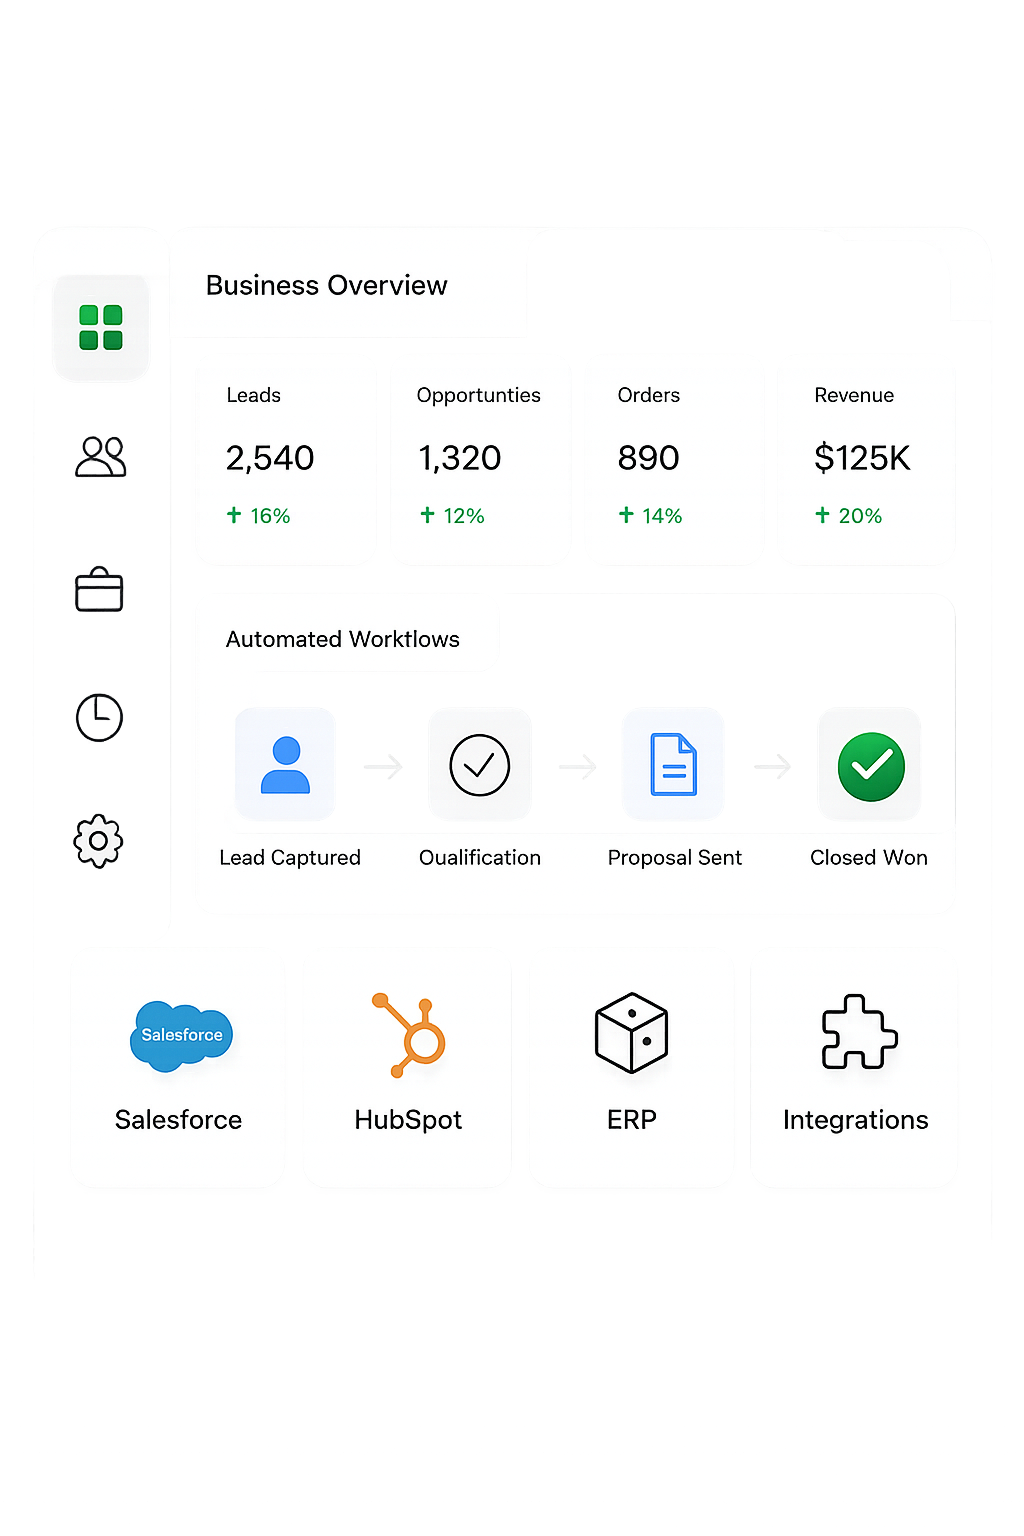
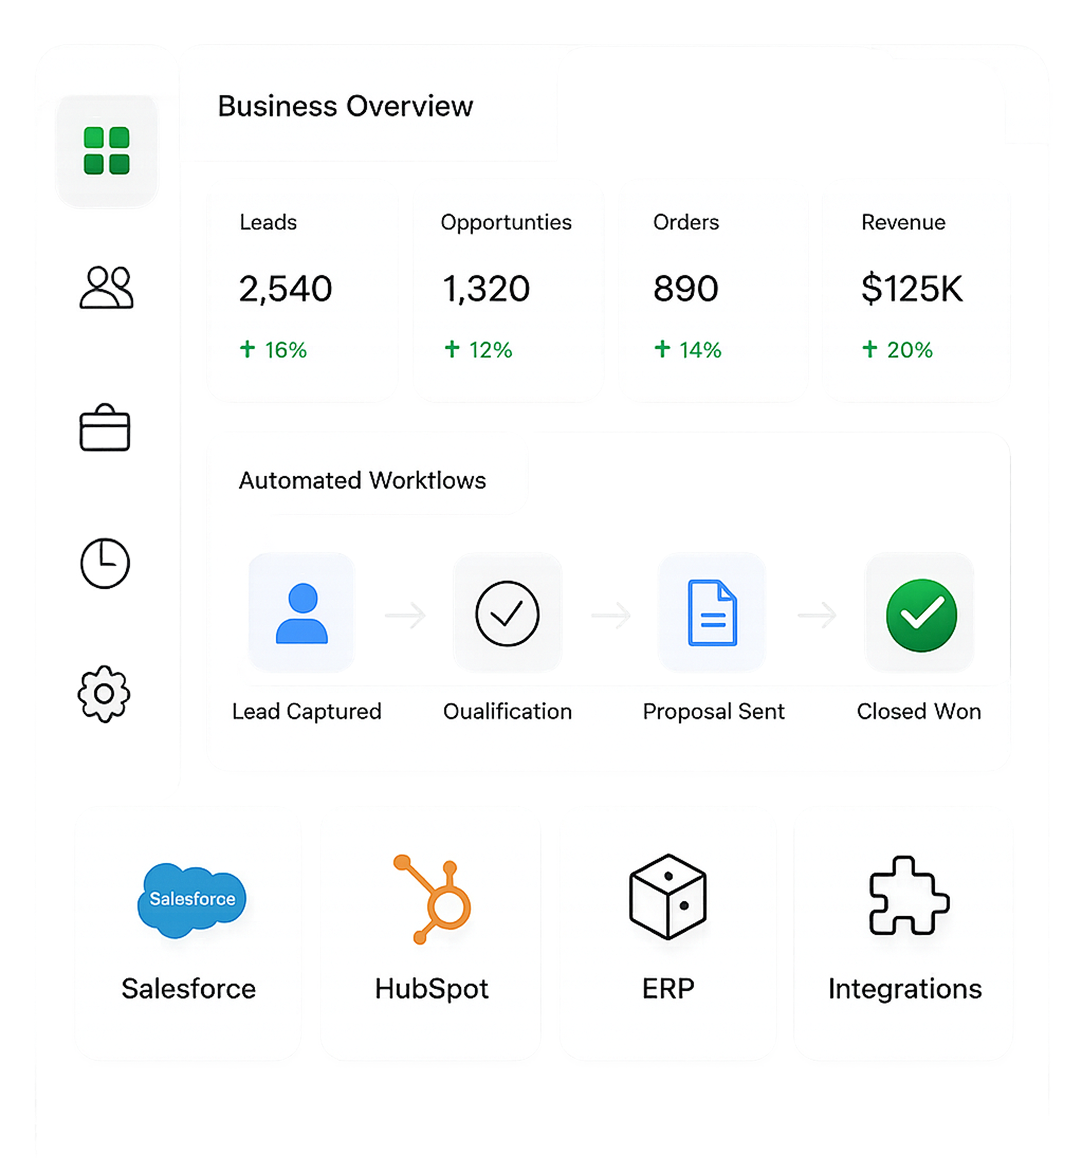
fix: images update

diff --git a/components/services/DevelopmentHero.jsx b/components/services/DevelopmentHero.jsx
@@ -80,14 +80,14 @@ export default function DevelopmentHero() {
                   <Image
                     className="ltr:d-block rtl:d-none"
                     alt="development-hero-mockup"
-                    src="/assets/images/template/hero-mockup.png"
+                    src="/assets/images/services/custom/hero-custom-dev.png"
                     width="1492"
                     height="1250"
                   />
                   <Image
                     className="ltr:d-none rtl:d-block"
                     alt="development-hero-mockup-rtl"
-                    src="/assets/images/template/hero-mockup-rtl.png"
+                    src="/assets/images/services/custom/hero-custom-dev.png"
                     width="1492"
                     height="1250"
                   />

diff --git a/components/services/ZohoHero.jsx b/components/services/ZohoHero.jsx
@@ -79,14 +79,14 @@ export default function ZohoHero() {
                   <Image
                     className="ltr:d-block rtl:d-none"
                     alt="zoho-hero-mockup"
-                    src="/assets/images/template/hero-mockup.png"
+                    src="/assets/images/services/zoho/hero-zoho.png"
                     width="1492"
                     height="1250"
                   />
                   <Image
                     className="ltr:d-none rtl:d-block"
                     alt="zoho-hero-mockup-rtl"
-                    src="/assets/images/template/hero-mockup-rtl.png"
+                    src="/assets/images/services/zoho/hero-zoho.png"
                     width="1492"
                     height="1250"
                   />

diff --git a/components/services/ErpHero.jsx b/components/services/ErpHero.jsx
@@ -76,14 +76,14 @@ export default function ErpHero() {
                   <Image
                     className="ltr:d-block rtl:d-none"
                     alt="erp-hero-mockup"
-                    src="/assets/images/template/hero-mockup.png"
+                    src="/assets/images/services/erp/hero-erp.png"
                     width="1492"
                     height="1250"
                   />
                   <Image
                     className="ltr:d-none rtl:d-block"
                     alt="erp-hero-mockup-rtl"
-                    src="/assets/images/template/hero-mockup-rtl.png"
+                    src="/assets/images/services/erp/hero-erp.png"
                     width="1492"
                     height="1250"
                   />

diff --git a/components/headers/component/MobileMenu.jsx b/components/headers/component/MobileMenu.jsx
@@ -1,6 +1,7 @@
 "use client";
 import { useContextElement } from "@/context/Context";
-import { icons, menuItems } from "@/data/menu";
+import { menuItems } from "@/data/menu";
+import { socialLinks } from "@/data/footer";
 import { closeMobileMenu } from "@/utlis/toggleMobileMenu";
 import Image from "next/image";
 import Link from "next/link";
@@ -249,7 +250,7 @@ export default function MobileMenu() {
           </div>
           <ul className="social-icons nav-x mt-4">
             <li>
-              {icons.map((icon, index) => (
+              {socialLinks.slice(0, 4).map((icon, index) => (
                 <a key={index} href={icon.href}>
                   <i className={icon.iconClass} />
                 </a>

diff --git a/components/homes/home-13/Features.css b/components/homes/home-13/Features.css
@@ -129,6 +129,10 @@
 }
 
 @media (max-width: 575.98px) {
+  .features-thirteen {
+    margin-top: 20px;
+  }
+
   .features-thirteen__header {
     margin-bottom: 32px;
     gap: 16px;
